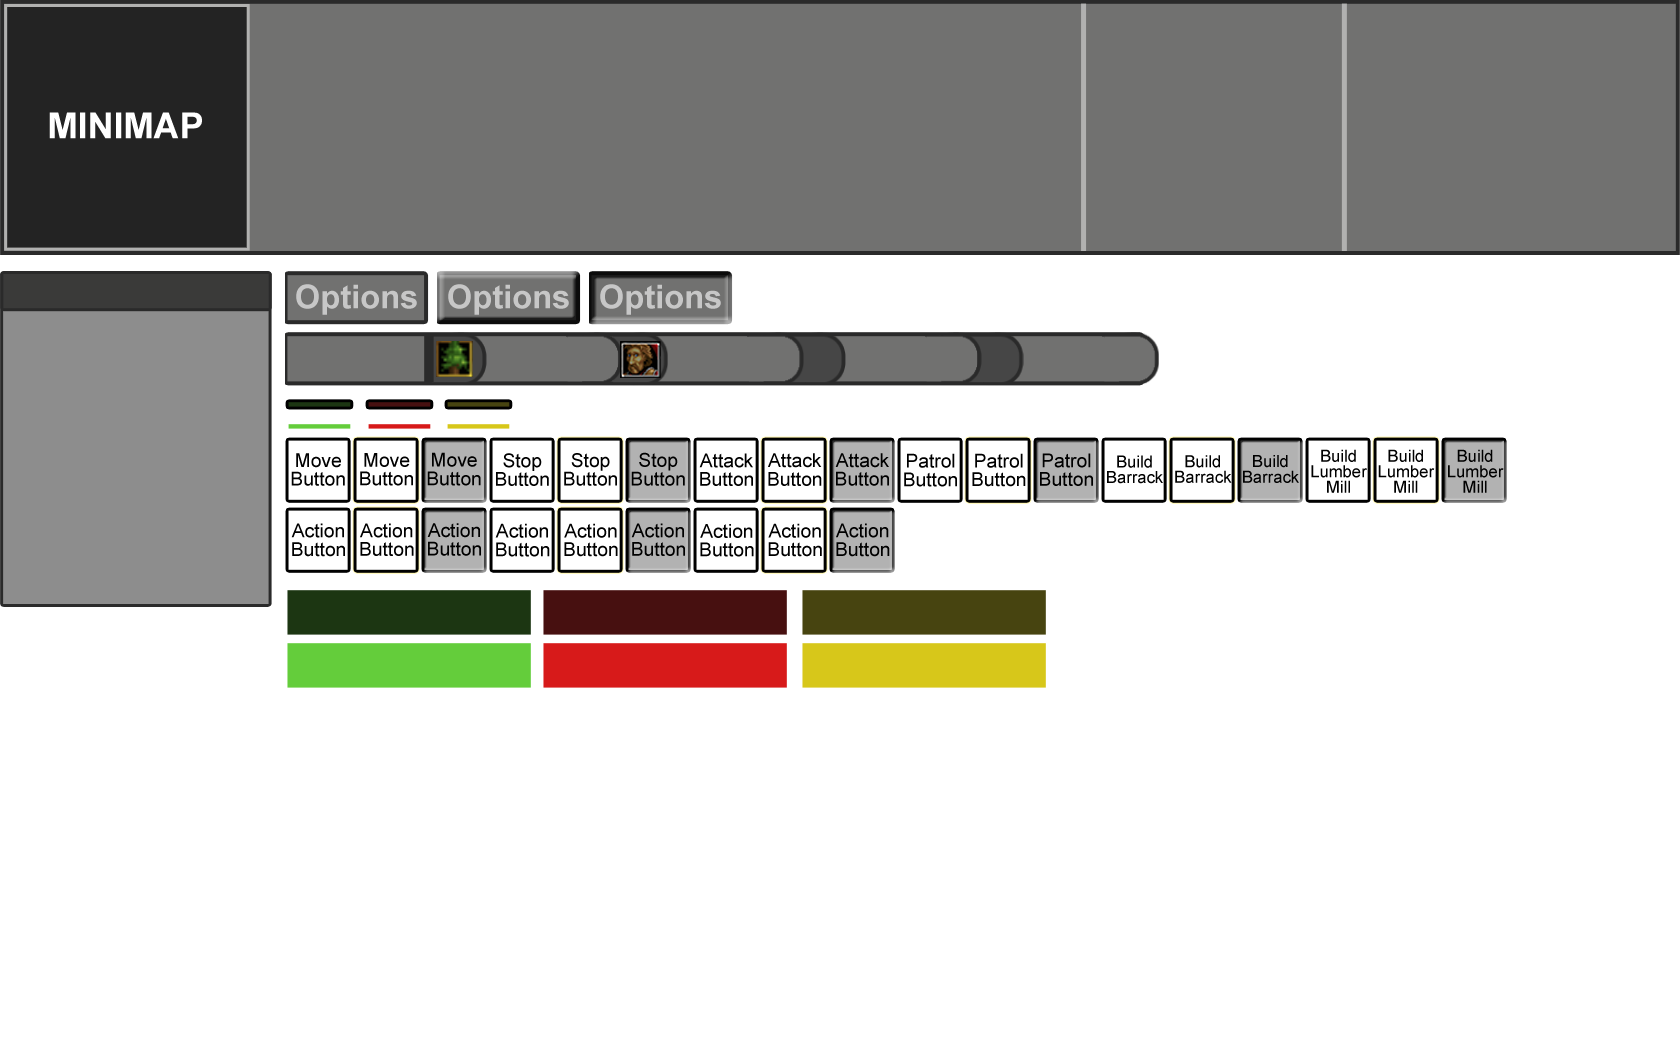
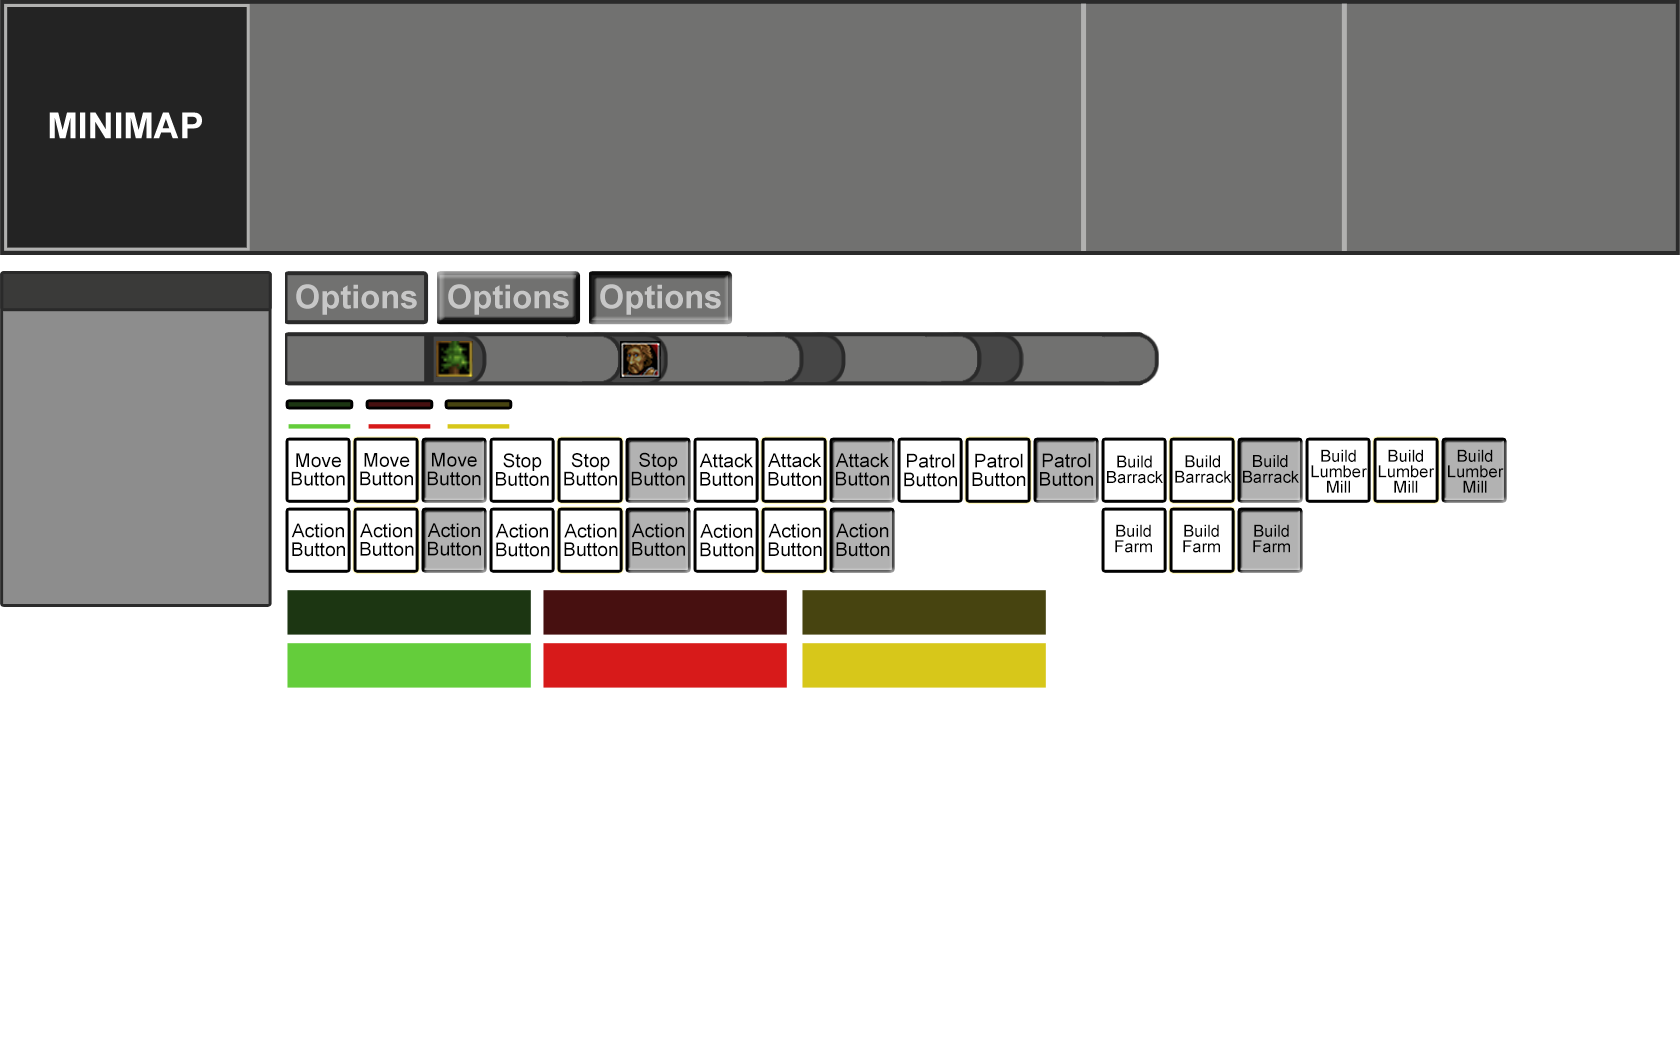
Lumber mill outer area detects trees. farms can be built from the hall. Farms give workers.

diff --git a/Motor2D/j1EntityController.cpp b/Motor2D/j1EntityController.cpp
@@ -69,6 +69,8 @@ bool j1EntityController::Update(float dt)
 	if (App->input->GetKey(SDL_SCANCODE_ESCAPE) == KEY_DOWN && App->entitycontroller->building)
 	{
 		building = false;
+		structure_beingbuilt = NONE_BUILDING;
+		App->actionscontroller->action_type = NO_ACTION;
 	}
 	if (App->input->GetKey(SDL_SCANCODE_B) == KEY_DOWN && !building)
 	{
@@ -110,7 +112,7 @@ bool j1EntityController::Update(float dt)
 		building = true;
 	}
 
-	else if (App->input->GetKey(SDL_SCANCODE_F) == KEY_DOWN && building && structure_beingbuilt == FARM)
+	else if (App->input->GetMouseButtonDown(SDL_BUTTON_LEFT) == KEY_DOWN && building && structure_beingbuilt == FARM)
 	{
 		iPoint position;
 		App->input->GetMousePosition(position.x, position.y);
@@ -128,11 +130,6 @@ bool j1EntityController::Update(float dt)
 		
 		if (App->map->WalkabilityArea(pos.x, pos.y, buildingDB[structure_beingbuilt]->size.x, buildingDB[structure_beingbuilt]->size.y))
 		{
-			if (structure_beingbuilt == 3)
-			{
-				Color green2 = { 0,255,0,75 };
-				App->render->DrawQuad({ (pos.x - (buildingDB[structure_beingbuilt]->additional_size.x * App->map->data.tile_width / 2)) + (buildingDB[structure_beingbuilt]->collider.w / 2),(pos.y - (buildingDB[structure_beingbuilt]->additional_size.x * App->map->data.tile_width / 2)) + (buildingDB[structure_beingbuilt]->collider.h / 2),buildingDB[structure_beingbuilt]->additional_size.x*App->map->data.tile_width,buildingDB[structure_beingbuilt]->additional_size.y*App->map->data.tile_height }, green2);
-			}
 			Color green = { 0,255,0,100 };
 			App->render->Blit(buildingDB[structure_beingbuilt]->texture, pos.x, pos.y, &buildingDB[structure_beingbuilt]->sprites[1]);
 			App->render->DrawQuad({ pos.x,pos.y,buildingDB[structure_beingbuilt]->size.x*App->map->data.tile_width,buildingDB[structure_beingbuilt]->size.y*App->map->data.tile_height }, green);
@@ -140,14 +137,22 @@ bool j1EntityController::Update(float dt)
 		}
 		else
 		{
-			if (structure_beingbuilt == 3)
+			Color red = { 255,0,0,100 };
+			App->render->Blit(buildingDB[structure_beingbuilt]->texture, pos.x, pos.y, &buildingDB[structure_beingbuilt]->sprites[1]);
+			App->render->DrawQuad({ pos.x,pos.y,buildingDB[structure_beingbuilt]->size.x*App->map->data.tile_width,buildingDB[structure_beingbuilt]->size.y*App->map->data.tile_height }, red);
+		}
+		if (structure_beingbuilt == 3)
+		{
+			if (!App->map->WalkabilityArea((pos.x - (buildingDB[structure_beingbuilt]->additional_size.x * App->map->data.tile_width / 2)) + (buildingDB[structure_beingbuilt]->collider.w / 2), (pos.y - (buildingDB[structure_beingbuilt]->additional_size.x * App->map->data.tile_width / 2)) + (buildingDB[structure_beingbuilt]->collider.h / 2), buildingDB[structure_beingbuilt]->additional_size.x, buildingDB[structure_beingbuilt]->additional_size.y,false,true))
+			{
+				Color green2 = { 0,255,0,75 };
+				App->render->DrawQuad({ (pos.x - (buildingDB[structure_beingbuilt]->additional_size.x * App->map->data.tile_width / 2)) + (buildingDB[structure_beingbuilt]->collider.w / 2),(pos.y - (buildingDB[structure_beingbuilt]->additional_size.x * App->map->data.tile_width / 2)) + (buildingDB[structure_beingbuilt]->collider.h / 2),buildingDB[structure_beingbuilt]->additional_size.x*App->map->data.tile_width,buildingDB[structure_beingbuilt]->additional_size.y*App->map->data.tile_height }, green2);
+			}
+			else
 			{
 				Color red2 = { 255,0,0,75 };
 				App->render->DrawQuad({ (pos.x - (buildingDB[structure_beingbuilt]->additional_size.x * App->map->data.tile_width / 2)) + (buildingDB[structure_beingbuilt]->collider.w / 2),(pos.y - (buildingDB[structure_beingbuilt]->additional_size.x * App->map->data.tile_width / 2)) + (buildingDB[structure_beingbuilt]->collider.h / 2),buildingDB[structure_beingbuilt]->additional_size.x*App->map->data.tile_width,buildingDB[structure_beingbuilt]->additional_size.y*App->map->data.tile_height }, red2);
 			}
-			Color red = { 255,0,0,100 };
-			App->render->Blit(buildingDB[structure_beingbuilt]->texture, pos.x, pos.y, &buildingDB[structure_beingbuilt]->sprites[1]);
-			App->render->DrawQuad({ pos.x,pos.y,buildingDB[structure_beingbuilt]->size.x*App->map->data.tile_width,buildingDB[structure_beingbuilt]->size.y*App->map->data.tile_height }, red);
 		}
 		
 	}

diff --git a/Motor2D/j1Map.cpp b/Motor2D/j1Map.cpp
@@ -93,16 +93,30 @@ iPoint j1Map::WorldToMap(int x, int y) const
 	return ret;
 }
 
-bool j1Map::WalkabilityArea(int x, int y, int rows, int columns, bool modify) const
+bool j1Map::WalkabilityArea(int x, int y, int rows, int columns, bool modify, bool check_trees)
 {
 	bool ret = true;
 	iPoint currentTile = { x,y };
+	MapLayer* tree_layer = data.layers[0];
+	if (check_trees)
+	{
+		for (int i = 0; i < data.layers.size(); i++)
+		{
+			MapLayer* layer = data.layers[i];
+
+			if (layer->name == "Resources")
+			{
+				tree_layer = layer;
+				break;
+			}
+		}
+	}
 	for (int j = 0; j < columns; j++)
 	{
 		for (int i = 0; i < rows; i++)
 		{
 			iPoint currentMapTile = WorldToMap(currentTile.x + j * data.tile_width, currentTile.y + i * data.tile_height);
-			if (!modify)
+			if (!modify &&  !check_trees)
 			{
 				if (!App->pathfinding->IsWalkable(currentMapTile))
 				{
@@ -110,10 +124,18 @@ bool j1Map::WalkabilityArea(int x, int y, int rows, int columns, bool modify) co
 					break;
 				}
 			}
-			else
+			else if(modify)
 			{
 				int tile = (currentMapTile.y*App->map->data.width) + currentMapTile.x;
 				App->pathfinding->map[tile] = INVALID_WALK_CODE;
+			}
+			else if(check_trees)
+			{
+				if (tree_layer->GetID(currentMapTile.x, currentMapTile.y) != 0)
+				{
+					ret = false;
+					break;
+				}
 			}
 		}
 

diff --git a/Motor2D/j1ActionsController.cpp b/Motor2D/j1ActionsController.cpp
@@ -45,6 +45,12 @@ bool j1ActionsController::Update(float dt)
 				App->entitycontroller->structure_beingbuilt = LUMBER_MILL;
 				App->entitycontroller->building = true;
 			}
+		case BUILD_FARM:
+			if (doingAction && !App->entitycontroller->building)
+			{
+				App->entitycontroller->structure_beingbuilt = FARM;
+				App->entitycontroller->building = true;
+			}
 			break;
 		}
 		

diff --git a/Motor2D/j1Map.h b/Motor2D/j1Map.h
@@ -108,7 +108,7 @@ public:
 
 	iPoint j1Map::WorldToMap(int x, int y) const;
 
-	bool WalkabilityArea(int x, int y, int rows, int columns, bool modify = false) const;
+	bool WalkabilityArea(int x, int y, int rows, int columns, bool modify = false, bool check_trees = false);
 
 	bool j1Map::CreateWalkabilityMap(int& width, int& height, uchar** buffer) const;
 private:

diff --git a/Motor2D/j1UIScene.cpp b/Motor2D/j1UIScene.cpp
@@ -153,6 +153,9 @@ bool j1UIScene::OnUIEvent(UI_element* element, event_type event_type)
 		case BUILD_LUMBER_MILL_FUNCTION:
 			App->actionscontroller->activateAction(BUILD_LUMBER_MILL);
 			break;
+		case BUILD_FARM_FUNCTION:
+			App->actionscontroller->activateAction(BUILD_FARM);
+			break;
 		}
 	}
 	else if (event_type == MOUSE_RIGHT_CLICK)

diff --git a/Motor2D/Building.cpp b/Motor2D/Building.cpp
@@ -53,6 +53,10 @@ bool Building::Update(float dt)
 			current_HP += hp_unit -1;
 			being_built = false;
 			last_frame_time = 0;
+			if (type == FARM)
+			{
+				App->scene->workers += 5;
+			}
 		}
 		else if( current_time > last_frame_time)
 		{

diff --git a/Motor2D/UI_element.h b/Motor2D/UI_element.h
@@ -41,7 +41,8 @@ enum element_function
 
 	MOVE_FUNCTION,
 	BUILD_BARRACKS_FUNCTION,
-	BUILD_LUMBER_MILL_FUNCTION
+	BUILD_LUMBER_MILL_FUNCTION,
+	BUILD_FARM_FUNCTION
 };
 
 enum element_state

diff --git a/Motor2D/j1ActionsController.h b/Motor2D/j1ActionsController.h
@@ -9,7 +9,8 @@ enum actionType
 
 	MOVE,
 	BUILD_BARRACKS,
-	BUILD_LUMBER_MILL
+	BUILD_LUMBER_MILL,
+	BUILD_FARM
 };
 
 class j1ActionsController : public j1Module
